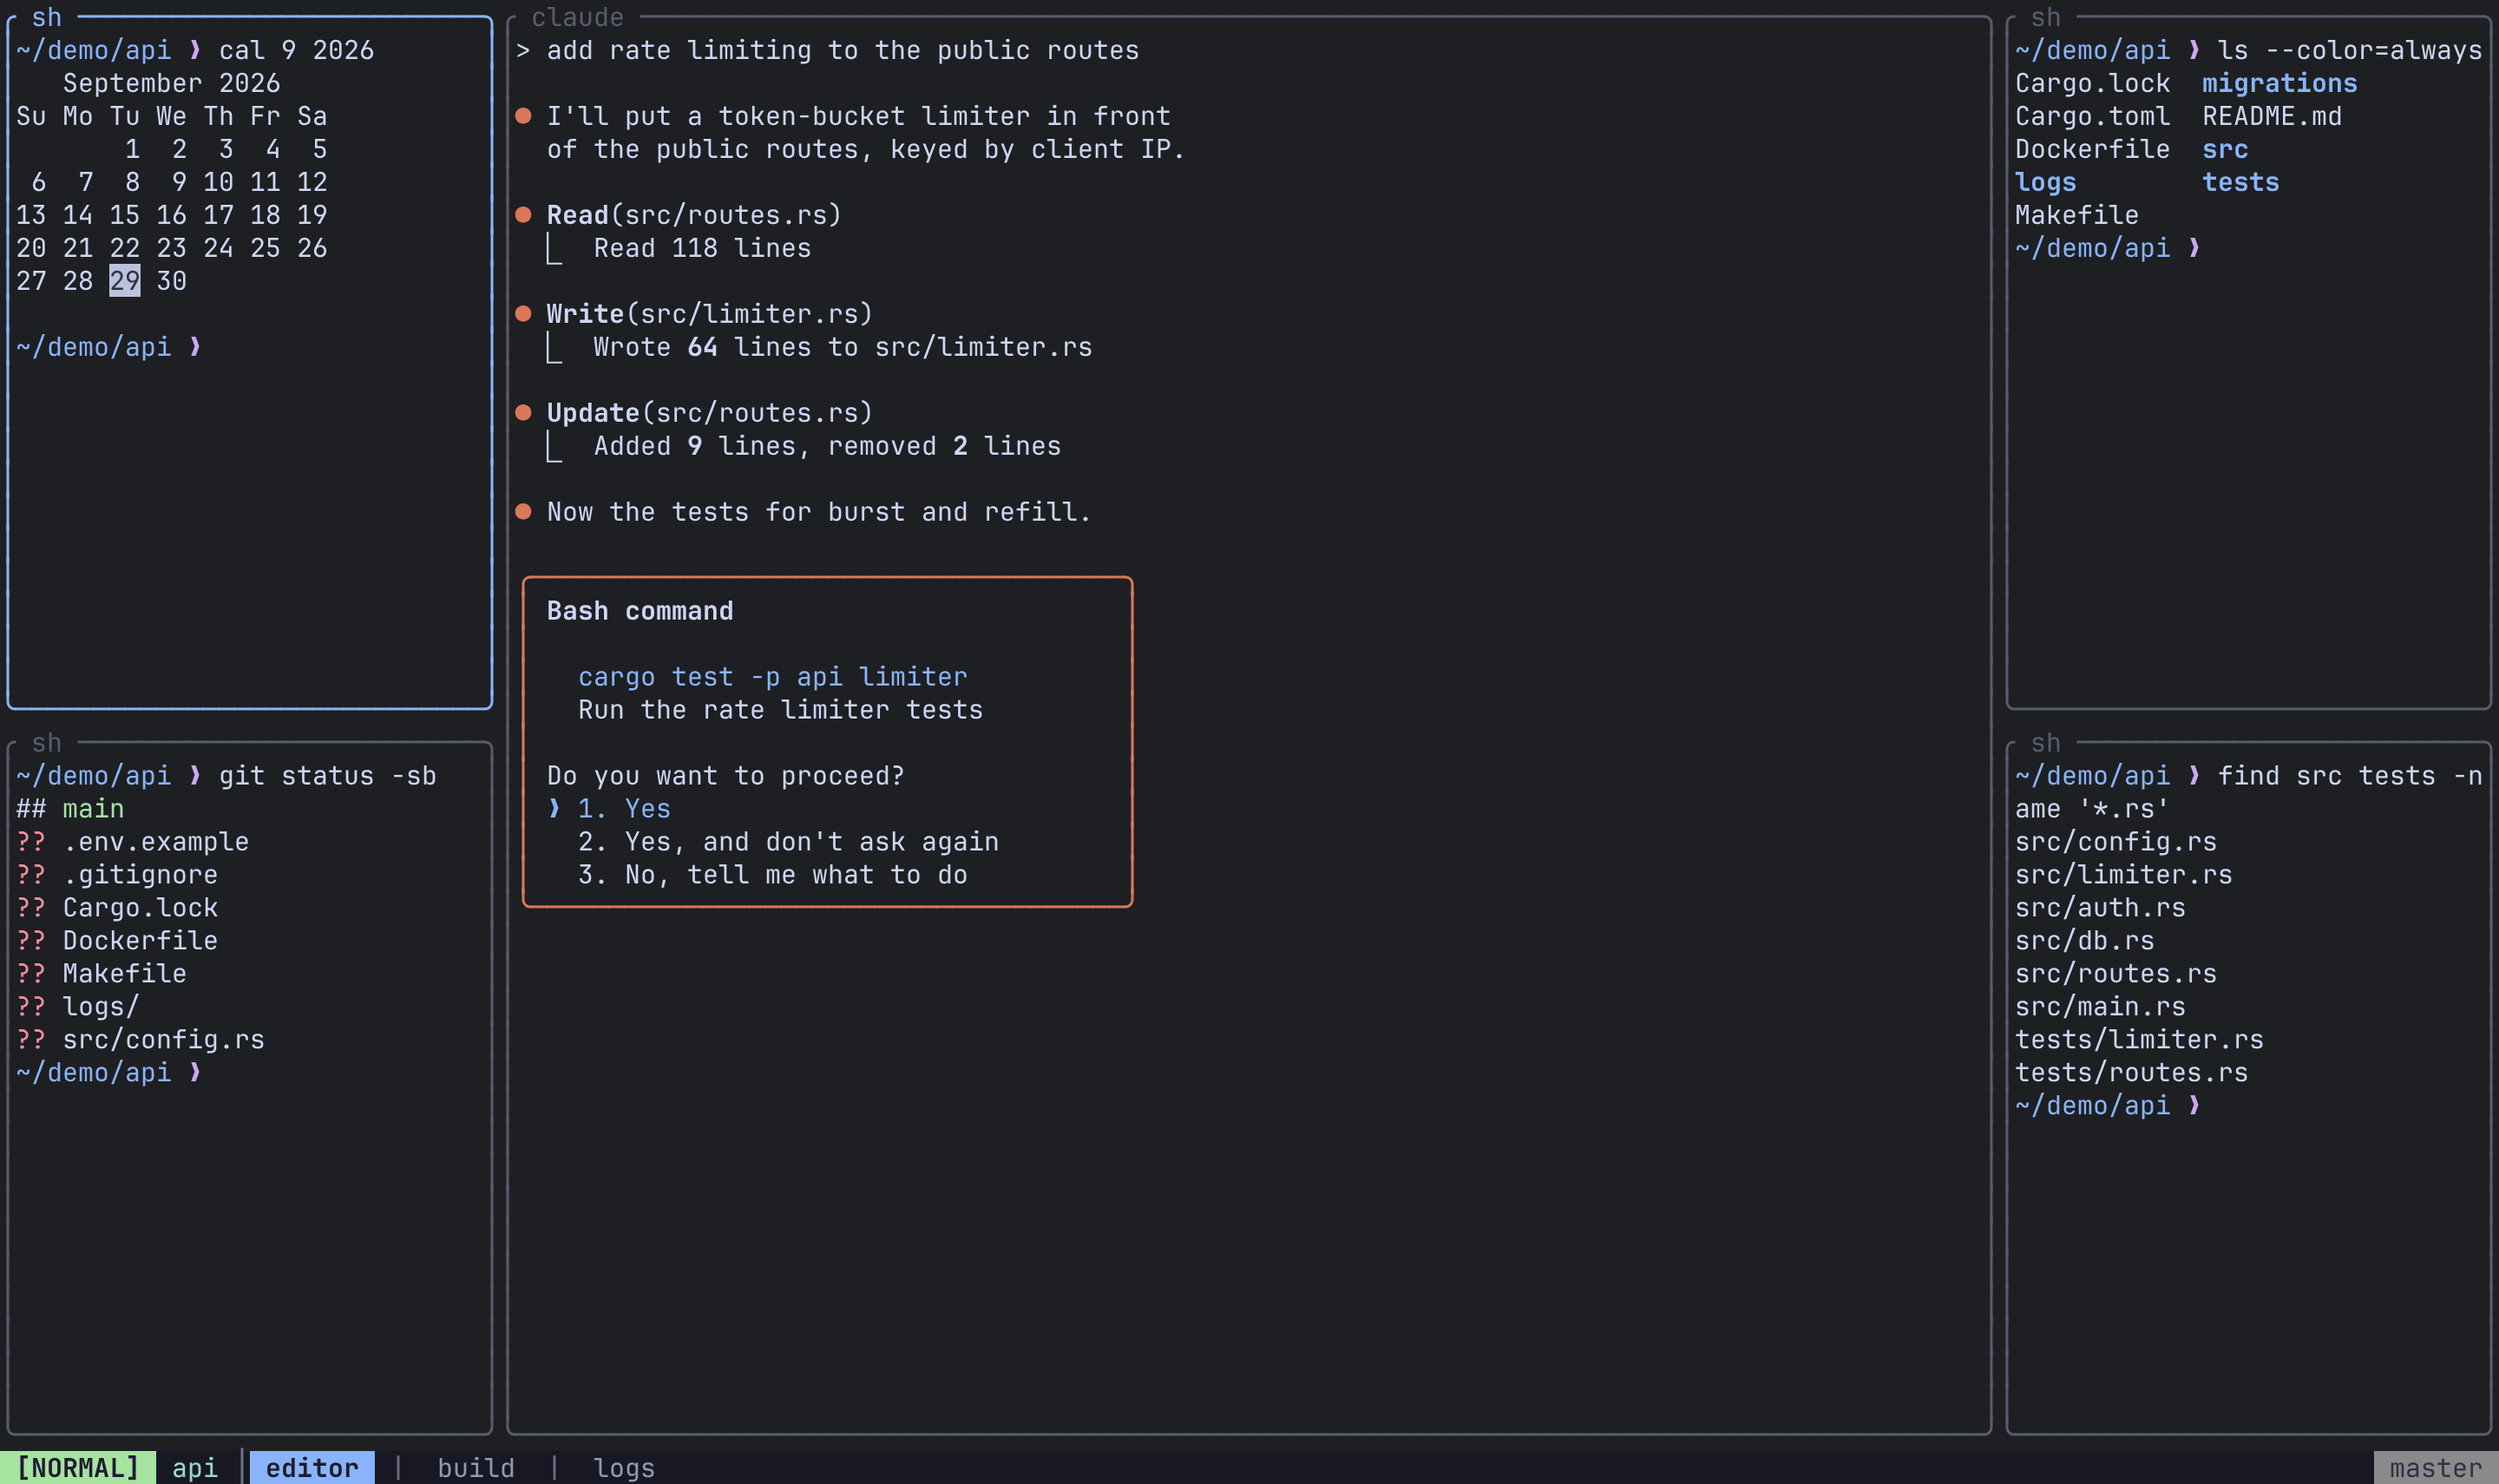
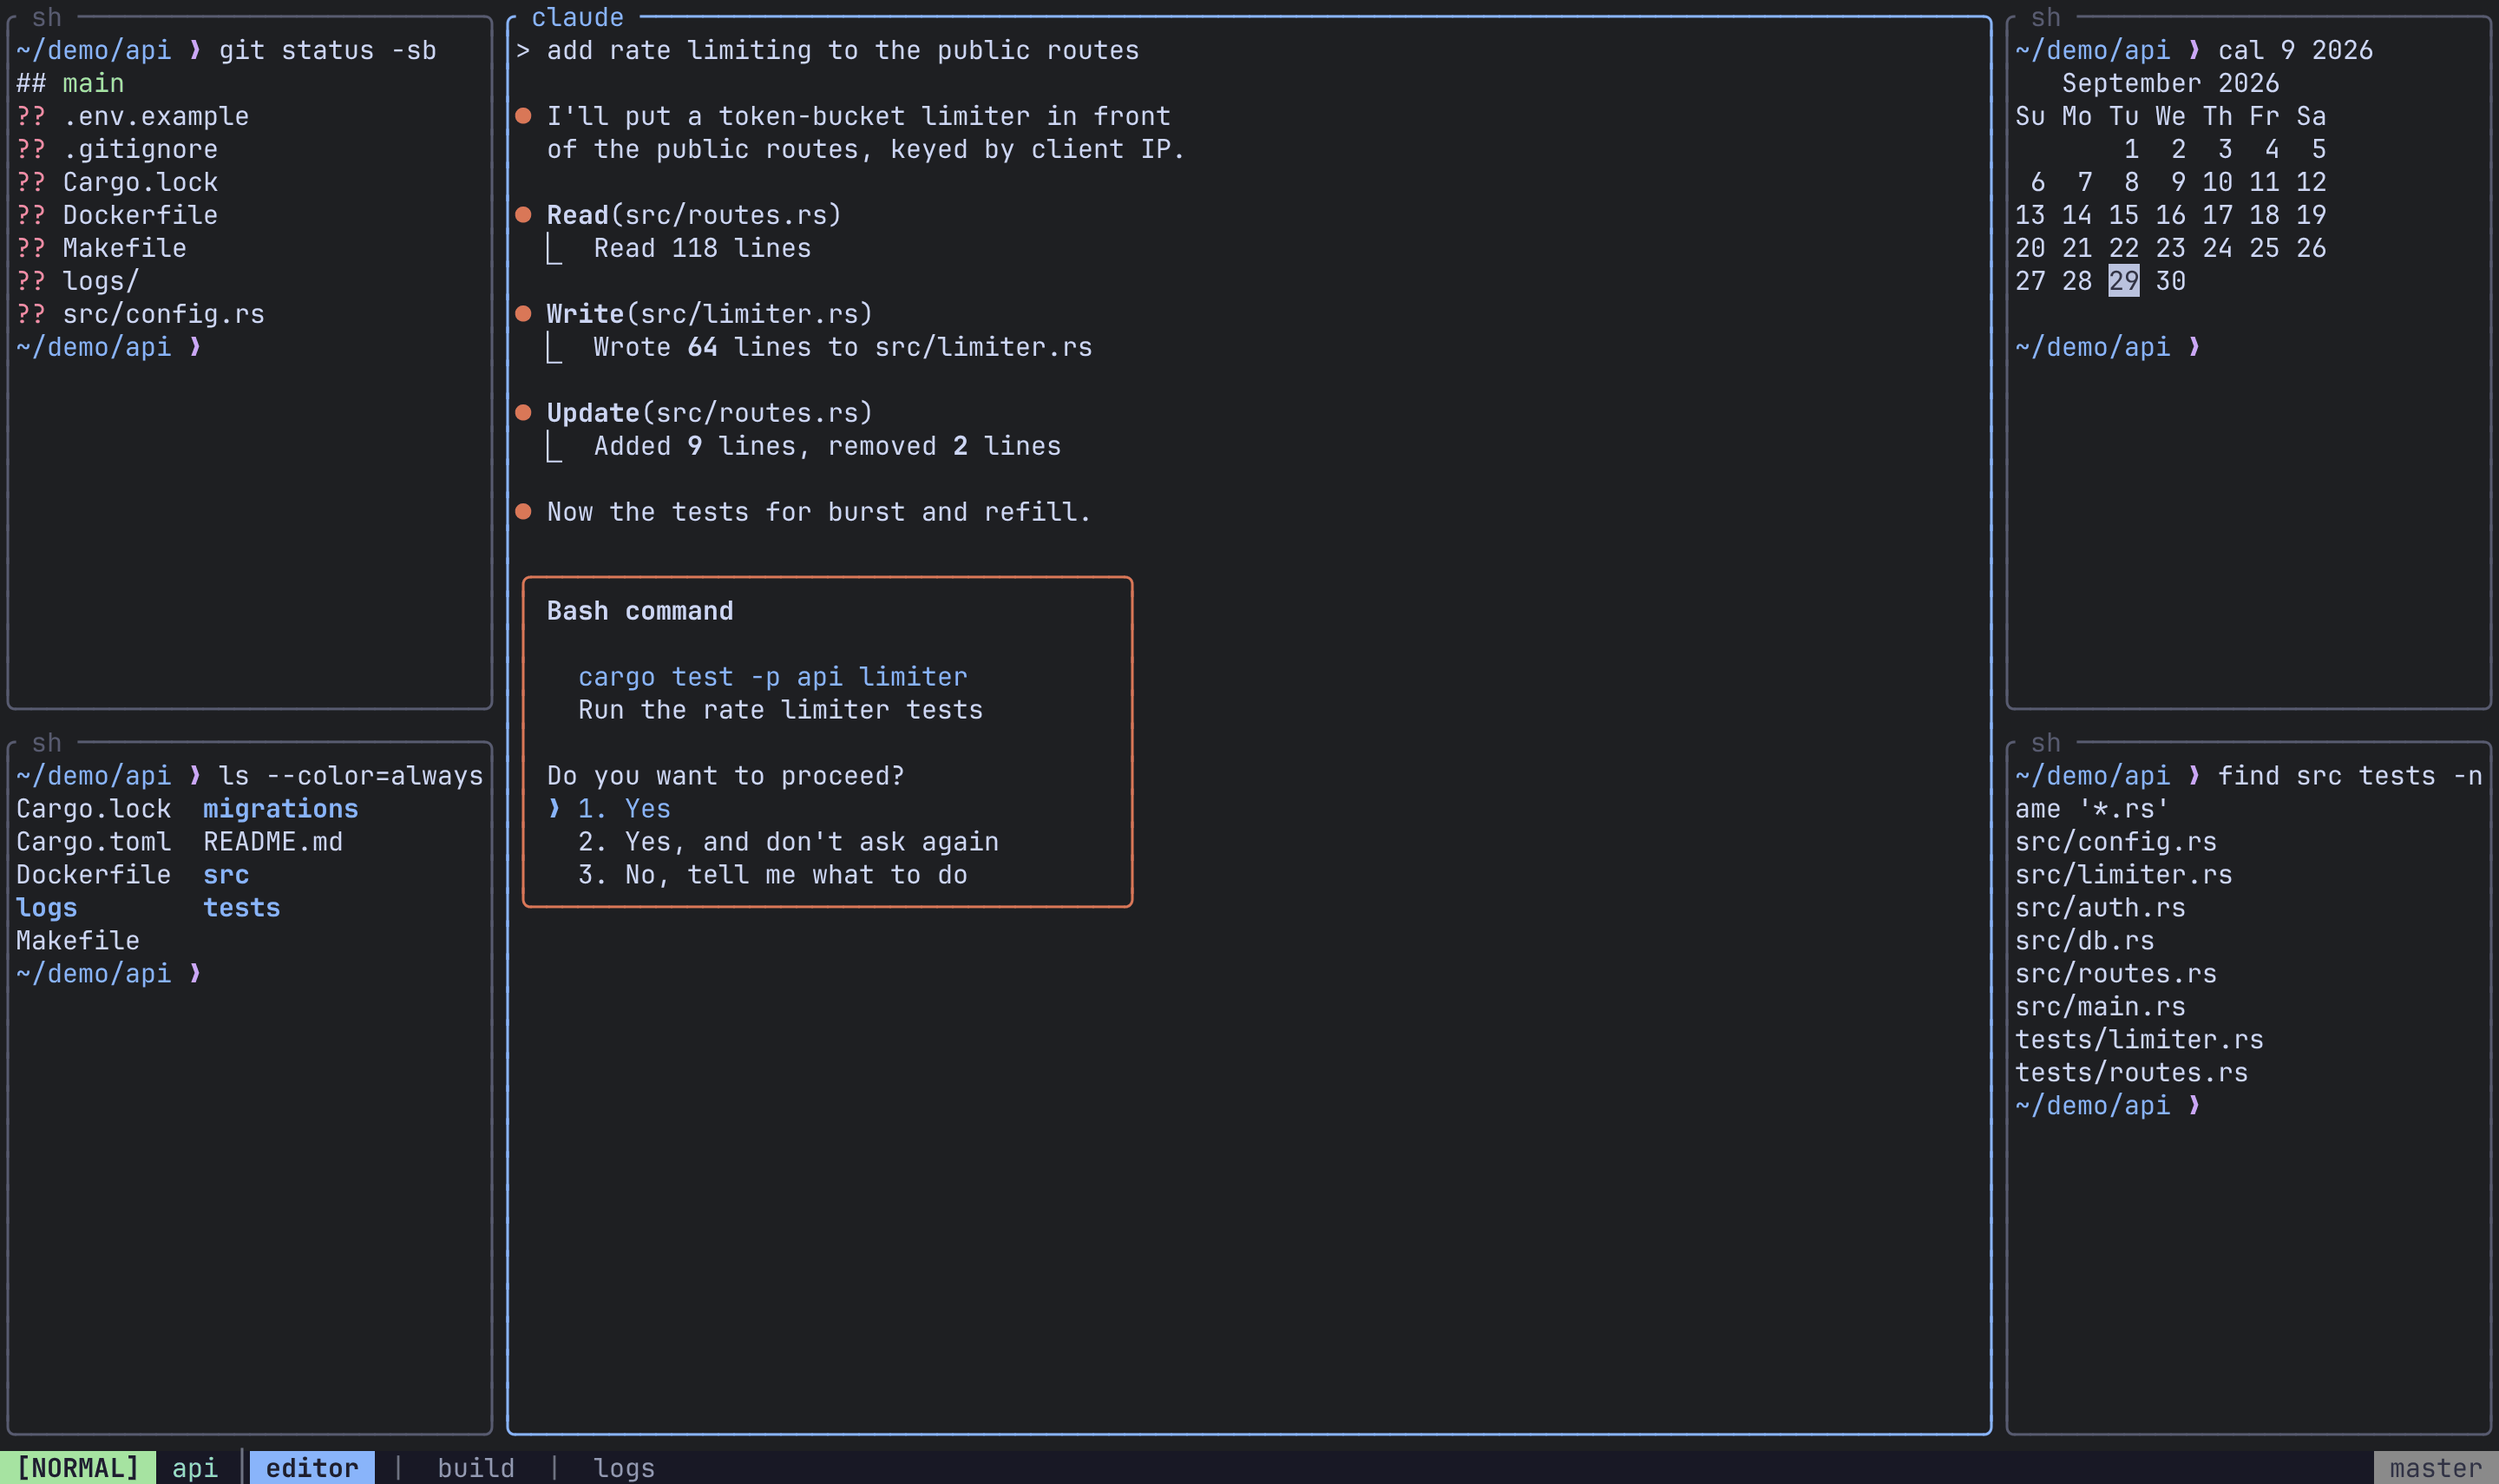
docs(readme): re-shoot which-key, Master, Monocle and the agent switcher
The which-key labels now read in full, and the shots drop the
workarounds for bugs this branch fixes: panes are paired with commands
in creation order, so Master's first pane is the master without
SetMaster, and Monocle switches panes normally.

diff --git a/tests/pty/readme_shots.py b/tests/pty/readme_shots.py
@@ -238,11 +238,16 @@ class Wire:
         raise SystemExit("no SessionTree reply")
 
     def panes(self, session):
-        """Pane ids of `session`, tab by tab, in pane order."""
+        """Pane ids of `session` in creation order.
+
+        The tree lists a tab's panes in screen order, which in Master or after
+        a split differs from the order the seeder made them in. Pane ids are
+        allocated in creation order, so sorting by id recovers it.
+        """
         t = self.tree()
         for s in t["unfiled"] + [s for f in t["folders"] for s in f["sessions"]]:
             if s["name"] == session:
-                return [p["id"] for tab in s["tabs"] for p in tab["panes"]]
+                return sorted(p["id"] for tab in s["tabs"] for p in tab["panes"])
         raise SystemExit(f"no session {session!r} in the tree")
 
     def close(self):
@@ -735,12 +740,10 @@ def at(dir_):
 
 
 def seed_api(w, n=4, cols=COLS, rows=ROWS, name="api", tabs=("build", "logs"), focus=0,
-             panes=None, before_typing=None):
+             panes=None):
     """Session `name` whose first tab runs `panes` (default: the first `n` of API_PANES).
 
     Focus ends on pane `focus` of that tab (`None` leaves it on the last one made).
-    `before_typing(w, pane_ids)` runs once the panes exist and before any output,
-    for layout changes that would otherwise re-wrap what the panes print.
     """
     panes = panes or API_PANES[:n]
     n = len(panes)
@@ -752,10 +755,7 @@ def seed_api(w, n=4, cols=COLS, rows=ROWS, name="api", tabs=("build", "logs"), f
         w.type(at("api"), 0.3)
     # Typed only once every pane exists: output printed before a later split
     # shrinks its pane gets re-wrapped by reflow into ragged lines.
-    ids = w.panes(name)
-    if before_typing:
-        before_typing(w, ids)
-    run_in_panes(w, name, ids, panes)
+    run_in_panes(w, name, w.panes(name), panes)
     for t in tabs:
         w.cmd("TabNew")
         w.cmd({"TabRename": t})
@@ -992,23 +992,10 @@ MASTER_PANES = [
 ]
 
 
-def seed_master(w):
-    def claude_to_master(w, ids):
-        w.cmd({"SessionSwitchPane": {"session": "api", "tab_index": 0, "pane_id": ids[0]}})
-        w.cmd("SetMaster")
-    seed_api(w, panes=MASTER_PANES, before_typing=claude_to_master)
-
-
-def seed_monocle(w):
-    # Monocle shows the pane made last. SessionSwitchPane cannot pick another:
-    # in a Monocle tab it moves focus but not the displayed pane.
-    seed_api(w, panes=API_PANES[1:4] + API_PANES[:1], focus=None)
-
-
-shot("layout-master")(layout_shot("master", 5, seed=seed_master,
+# The master is the first pane made, so claude lands in it.
+shot("layout-master")(layout_shot("master", 5, seed=lambda w: seed_api(w, panes=MASTER_PANES),
                                   visible=[seen for _, seen in MASTER_PANES]))
-shot("layout-monocle")(layout_shot("monocle", 4, visible=["Do you want to proceed?"],
-                                   seed=seed_monocle))
+shot("layout-monocle")(layout_shot("monocle", 4, visible=["Do you want to proceed?"]))
 shot("layout-grid")(layout_shot("grid", 6))
 shot("layout-columns")(layout_shot("columns", 3))
 shot("layout-rows")(layout_shot("rows", 3))
@@ -1254,9 +1241,7 @@ shot("whichkey-full-width")(overlay_shot(
     "\x01", "command palette", cfg=config(extra='which_key_position = "full_width"'), full=True))
 shot("command-pallet")(overlay_shot("\x01:", "PaneSplit", then=[("split", "Vertical")]))
 shot("session-switcher")(overlay_shot("\x1bs", "training", remote=True))
-# `jj` puts the cursor on a row other than the current pane's, whose own
-# highlight would otherwise hide it.
-shot("agent-switcher")(overlay_shot("\x1ba", "training", then=[("jj", "training")], remote=True))
+shot("agent-switcher")(overlay_shot("\x1ba", "training", remote=True))
 @shot("session-manager")
 def shot_session_manager(env, out):
     """The tree: a folder, local sessions, and the `devbox` remote expanded."""
